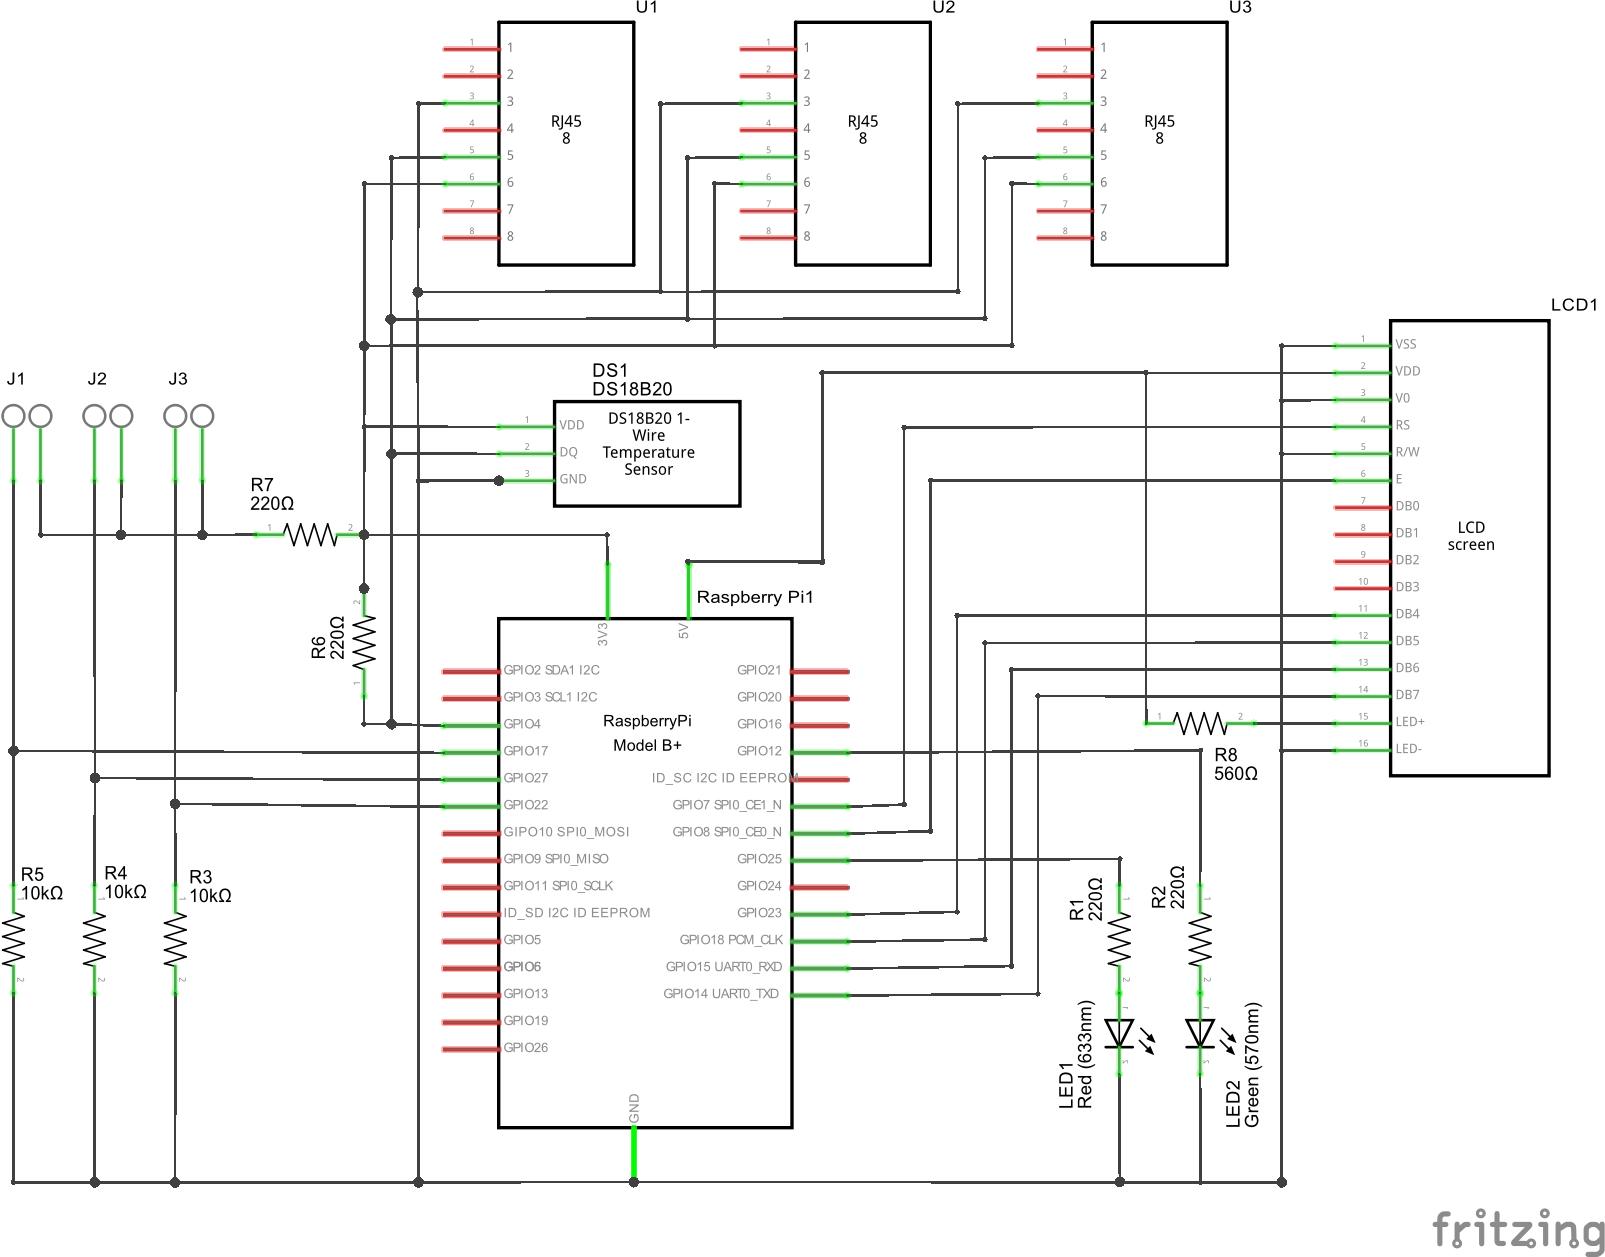
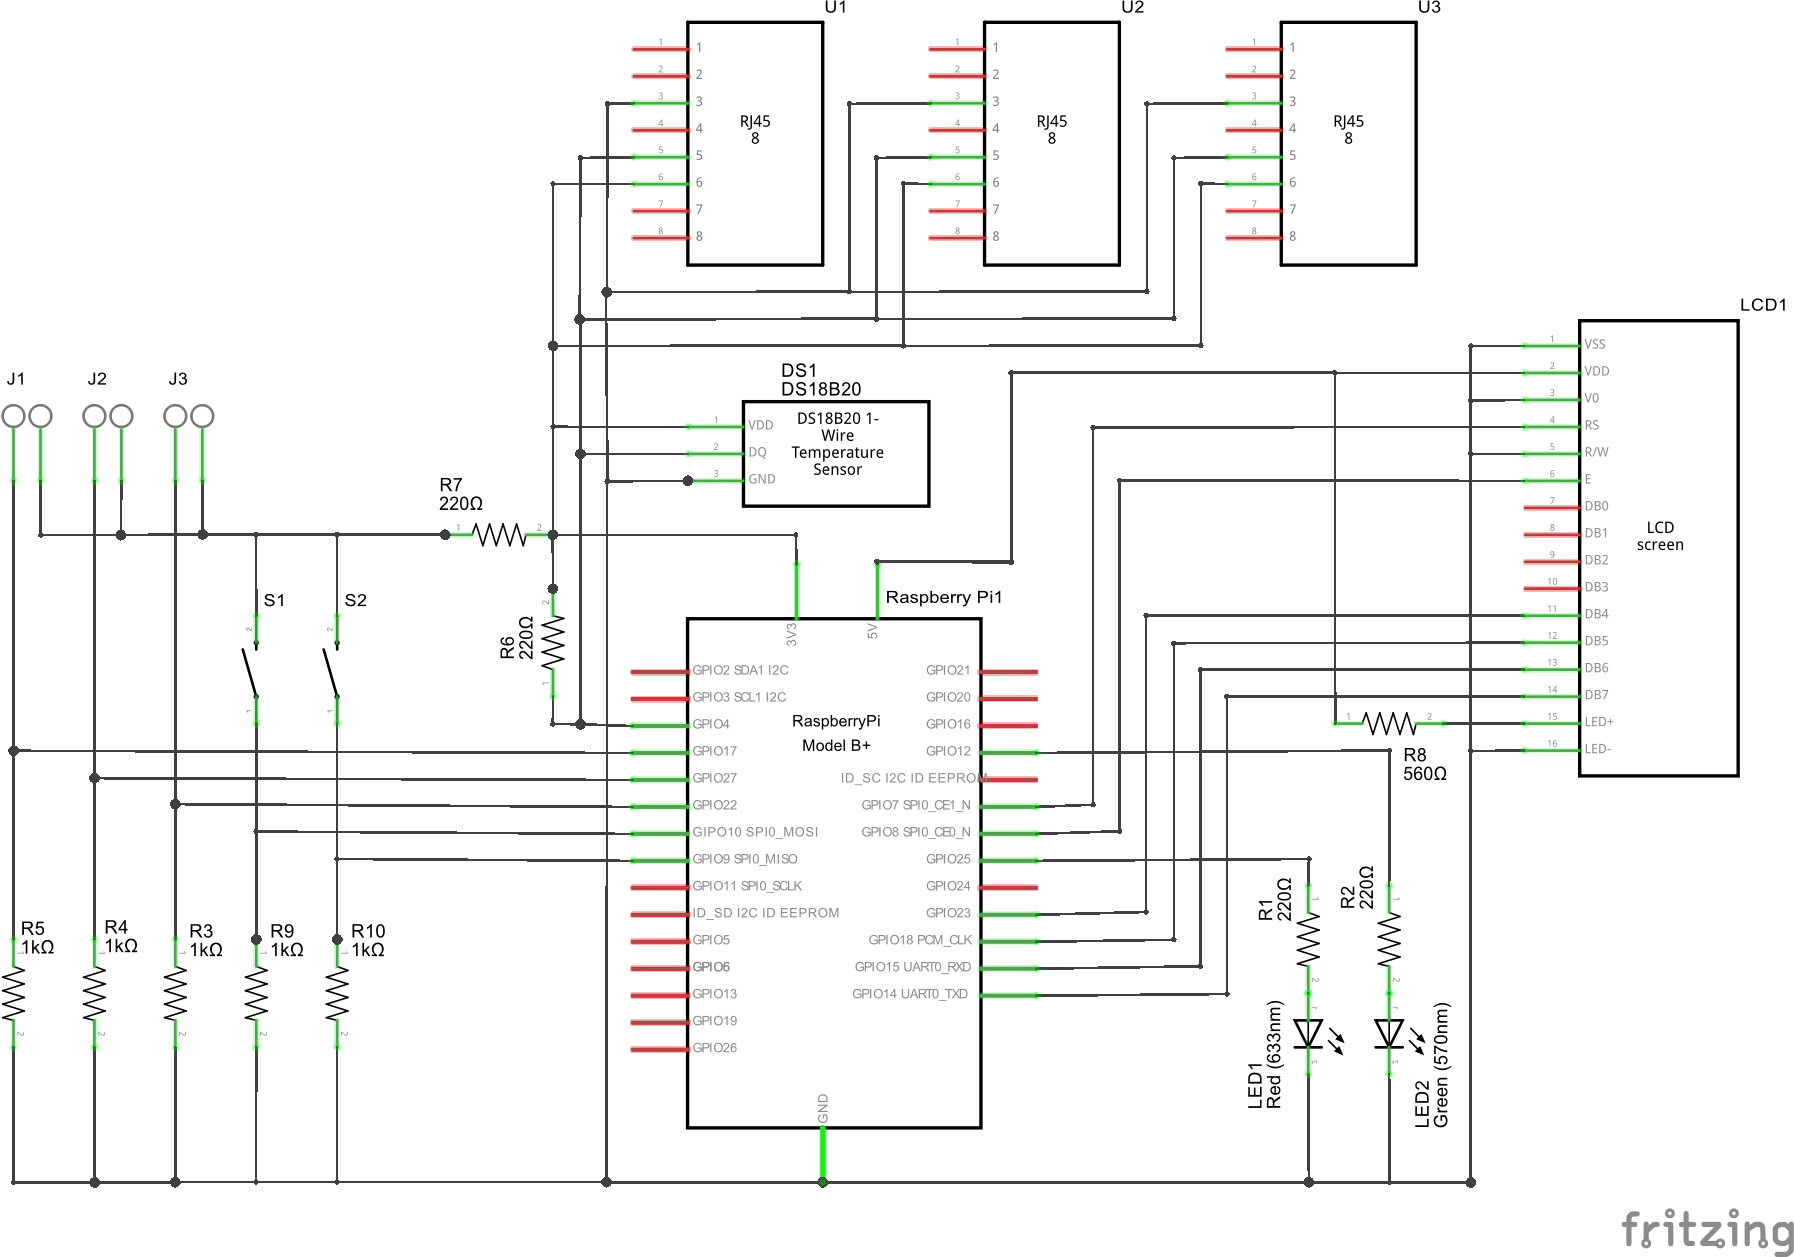
pushbuttons + minor changes
- added push buttons to cycle through error messages on 2x16 LCD
display.
- improved mail from naming in e-mail addresses
- changed 'from' address to name of sensor.

diff --git a/src/tmon.py b/src/tmon.py
@@ -19,12 +19,20 @@ import messages
 
 version_ = "v1.0"
 
+class Msg:
+    """ error messages """
+    def __init__(self):
+        self.name = ""
+        self.msg = ""
+        
 def terminate(msg):
     logging.warning(msg)
     sys.exit()
 
 
 def main():
+    global btn_down, btn_isDown, btn_up, btn_isUp
+    global errorlist, errorindex
     # initialize event intervals
     #
     now = time.time()
@@ -36,11 +44,13 @@ def main():
     UNSAVED_MAX = 60 * 60 * 1
     DELAY_THERMPOLL = 5
     DELAY_DISPLAY = 3
+    DELAY_ERRDISP = 5
     
     wait_thermpoll = now
     wait_clearlog = now
     wait_blink = now
     wait_display = now
+    wait_errdisp = 0
 
     okledstatus = False
 
@@ -112,14 +122,36 @@ def main():
             okledstatus = not okledstatus
         
         # control error LED
-        e_ = 0
+        errorlist = []
         for _n in messages.list_:
-            if _n.error: e_ += 1
-        GPIO.output(LED_ERROR, e_ > 0)
+            _msg = Msg()
+            _msg.name = _n.sensor
+            _msg.msg = _n.msgfault
+            if _n.error: errorlist.append(_msg)
+        
+        GPIO.output(LED_ERROR, len(errorlist) > 0)
 
+        # check press on up button
+        if not btn_isUp:
+            if GPIO.input(btn_up):
+                btn_isUp = True
+                wait_errdisp = now
+                errorindex += 1
+                if errorindex >= len(errorlist):
+                    errorindex = 0
+        else:
+            btn_isUp = GPIO.input(btn_up)
+
+        # display errormessage on LCD
+        if now < (wait_errdisp + DELAY_ERRDISP): 
+            if len(errorlist) > 0:
+                lcd.writeline(errorlist[errorindex].name,1)
+                lcd.writeline(errorlist[errorindex].msg,2)
         # show thermometers on display
-        if now > wait_display:
-            wait_display += DELAY_DISPLAY
+        elif now > wait_display:
+            errorindex = 0
+            while now > wait_display:
+                wait_display += DELAY_DISPLAY
             _list = sensors.getlist(sensors.TYPE_THERMOMETER)
             if lcdindex < len(_list):
                 _sensor = _list[lcdindex]
@@ -128,12 +160,10 @@ def main():
             else:
                 _msg = tools.getipaddress()
                 lcdindex = 0
+            lcd.writeline("tmon " + version_,1)
             lcd.writeline(_msg, 2)
 
-LED_OK = 25
-LED_ERROR = 12
-errorled = 0
-
+            
 log = db.SQLLog()
 
 # init GPIO
@@ -146,13 +176,28 @@ lcd.init()
 lcd.writeline("tmon " + version_, 1)
 lcd.writeline("initializing ...", 2)
 
-# init LEDs
-GPIO.setup(LED_OK, GPIO.OUT)
+# error handling I/O
+LED_OK = 25
+LED_ERROR = 12
+errorlist = []
+errorindex = 0
+
+errorled = GPIO.setup(LED_OK, GPIO.OUT)
 GPIO.setup(LED_ERROR, GPIO.OUT)
 GPIO.output(LED_ERROR,True)
 GPIO.output(LED_OK,True)
 
+# init buttons
+btn_up = 10
+btn_down = 9
+btn_isUp = False
+btn_isDown = False
+GPIO.setup(btn_down, GPIO.IN,pull_up_down=GPIO.PUD_DOWN)
+GPIO.setup(btn_up,   GPIO.IN,pull_up_down=GPIO.PUD_DOWN)
+
+# read config
 config.readconfig("/etc/tmon.conf")
+
 
 # create sensors list and start sensors updating threads
 sensors.init()
@@ -166,10 +211,8 @@ except MySQLError:
 
 time.sleep(3)
 
-try:
-    main()
-except:
-    pass
+
+main()
 
 log.close()
 GPIO.output(LED_OK, False)

diff --git a/src/config.py b/src/config.py
@@ -6,12 +6,10 @@ import logging
 import sensors
 import messages
 
-
-
-
 #
 # tmon mail settings
 #
+hostname = ""  # friendly name to use in mail address
 deviceid = ""  # config name of the device. Not used yet
 mail_address = ""  # config sender address
 mailuser = ""  # config username
@@ -41,7 +39,7 @@ def getalias(address):
 
 def readconfig(filename):
     global deviceid, mail_address, mailuser, mailpass, smtp
-    global dbserver, dbname, dbuser, dbpass, keeplog
+    global dbserver, dbname, dbuser, dbpass, keeplog, hostname
     
     _cfg = open(filename, 'r')  # open the config file
     rows = _cfg.readlines()  # and read all lines
@@ -57,6 +55,7 @@ def readconfig(filename):
                 sensors.aliases.append(_alias)
 
             # mailing configuration options
+            elif arg[0] == "hostname": hostname = arg[1]
             elif arg[0] == "smtp": smtp = arg[1]
             elif arg[0] == "mail-address": mail_address = arg[1]
             elif arg[0] == "mailuser": mailuser = arg[1]

diff --git a/src/test.py b/src/test.py
@@ -4,17 +4,17 @@
 #
 import os
 import sys
-from twilio.rest import TwilioRestClient
+import RPi.GPIO as GPIO
 
-ACCOUNT_SID = "AC8ea0cd070e2264607023c953bfa5d90e"
-AUTH_TOKEN = "05e87d88da3893c846226dcb5d557d2c"
-TEXT_FROM = "+32460201234"
-TEXT_TO = "+32484440957"
+os.system('modprobe w1-gpio')
+os.system('modprobe w1-therm')
 
-client = TwilioRestClient(ACCOUNT_SID, AUTH_TOKEN) 
+# init GPIO ports
+GPIO.setmode(GPIO.BCM)
+GPIO.setup(9, GPIO.IN,pull_up_down=GPIO.PUD_DOWN)
+GPIO.setup(10, GPIO.IN,pull_up_down=GPIO.PUD_DOWN)
 
-client.messages.create(
-    to= TEXT_TO, 
-    from_=TEXT_FROM, 
-    body="Hello there",  
-)
+while(True):
+    a = GPIO.input(9)
+    b = GPIO.input(10)
+    print("9=" + str(a) + ", 10=" + str(b))

diff --git a/src/messages.py b/src/messages.py
@@ -42,7 +42,7 @@ def sendsms(_n, body):
         client.messages.create(
             to= _n.sendto, 
             from_= twilio_from, 
-            body= body,  
+            body= config.hostname + " " + _n.sensor + " " + body,  
         )
     except twilio.rest.exceptions.TwilioRestException:
         logging.warning("number " + _n.sendto + " is not a valid, SMS capable phone number")
@@ -56,7 +56,7 @@ def sendsms(_n, body):
 
 
 def sendemail(_n, body):
-    content = "From: <" + config.mail_address + ">\n"
+    content = "From: " + config.hostname + " " + _n.sensor + "<" + config.mail_address + ">\n"
     content += "To: <" + _n.sendto + ">\n"
     content += "Subject: " + body + "\n\n"
     

diff --git a/README.md b/README.md
@@ -6,17 +6,18 @@ tmon implements a Raspberry Pi based watchdog for temperature logging and intrus
 - Three door contact sensors
 - Configuration using /etc/tmon.conf config file
 - Threaded sensor reading for quick response
-- Notifications can be sent by mail and SMS using Twilio account
-- Send notification (alert) when sensor is triggers by threshold temperatures
-- Send another notification when sensor values are restored
-- Send another notification when a sensor is removed from the RPi
+- Notifications (alerts) can be sent by e-mail and SMS (using Twilio account)
+- Send notification when a sensor is triggers by threshold temperatures
+- Send notification when a sensor values are restored
+- Send notification when a sensor is removed from the RPi
 - Each notification can be sent to another addressee
 - notifications can be double, tripled, ...
-- Error conditons are shown by an indicator LED
+- Error conditons are shown by an indicator LED and on 2x16 LCD display
 - Blinking LED to show tmon is still running
-- Can be used headless because of 2x16 LCD display which displays IP-address (helpfull in case of DHCP)
+- shows IP address on startup(helpfull in case of DHCP)
 - temperature monitoring via 2x16 LCD display
-- sensor logging in MySQL database on the Pi
+- Cycle through error messages on LCD display using push button
+- sensor status logging in MySQL database on the Pi
 - Log can be viewed via webpage
 - sensor data graphics shown on webpage using PHP
 
@@ -27,6 +28,14 @@ tmon implements a Raspberry Pi based watchdog for temperature logging and intrus
 - Programming on Windows in Notepad++
 - Uploaded files using samba
 - Written for Python 2.7.3.
+
+## GPIO ports used ##
+- GPIO4: onewire hub for DS18B20 thermometers
+- GPIO17+27+22: contact1+2+3
+- GPIO26+12: LEDs red+green
+- GPIO14+15+18+23: LCD DB4-7 datalines
+- GPIO7+8: LCD RS+E
+- GPIO9+10: 2 pushbuttons
 
 ## Schematic##
 schematics are drawn with [Fritzing.0.9.1b](http://fritzing.org/)
